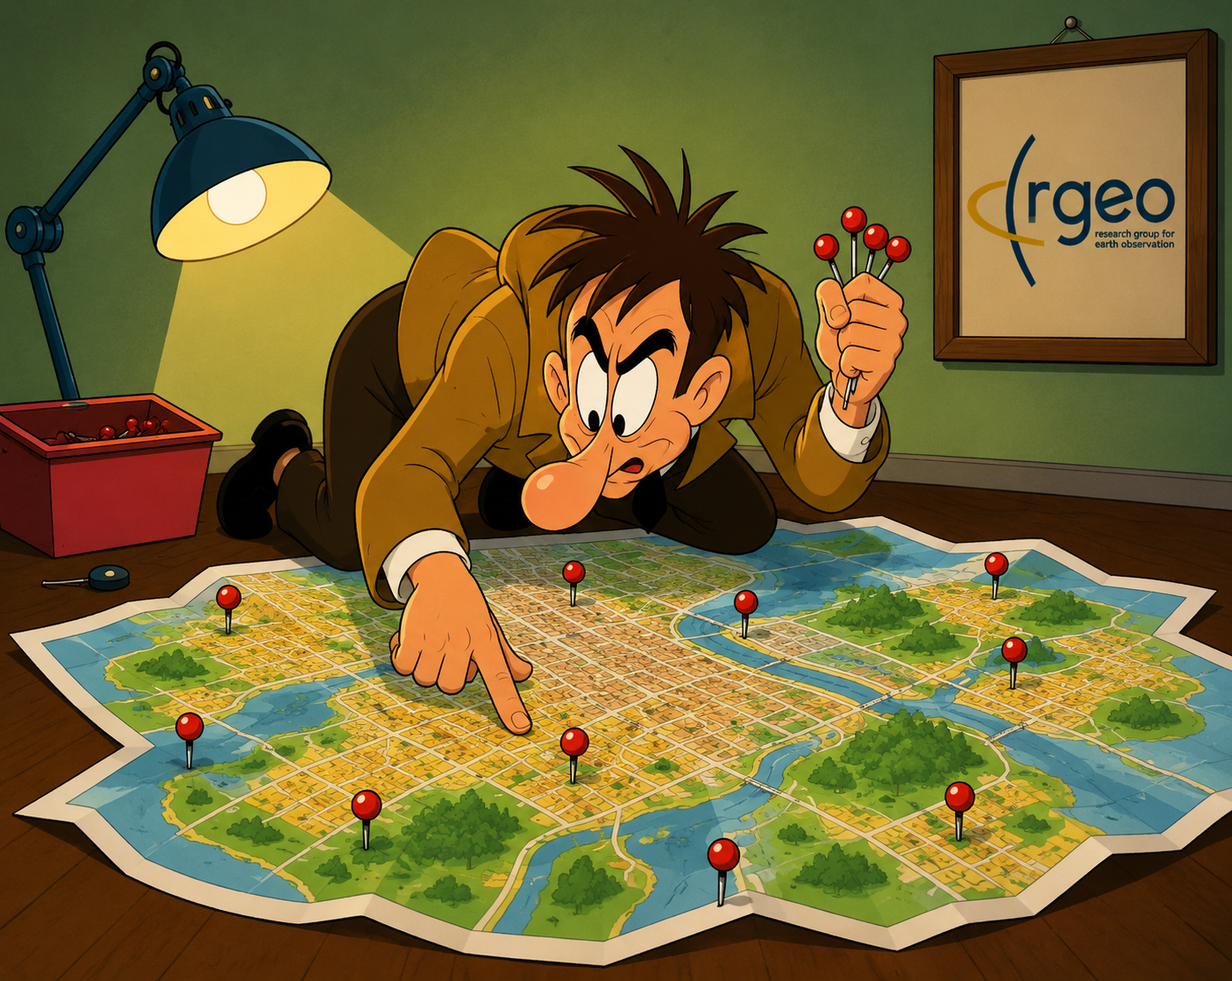
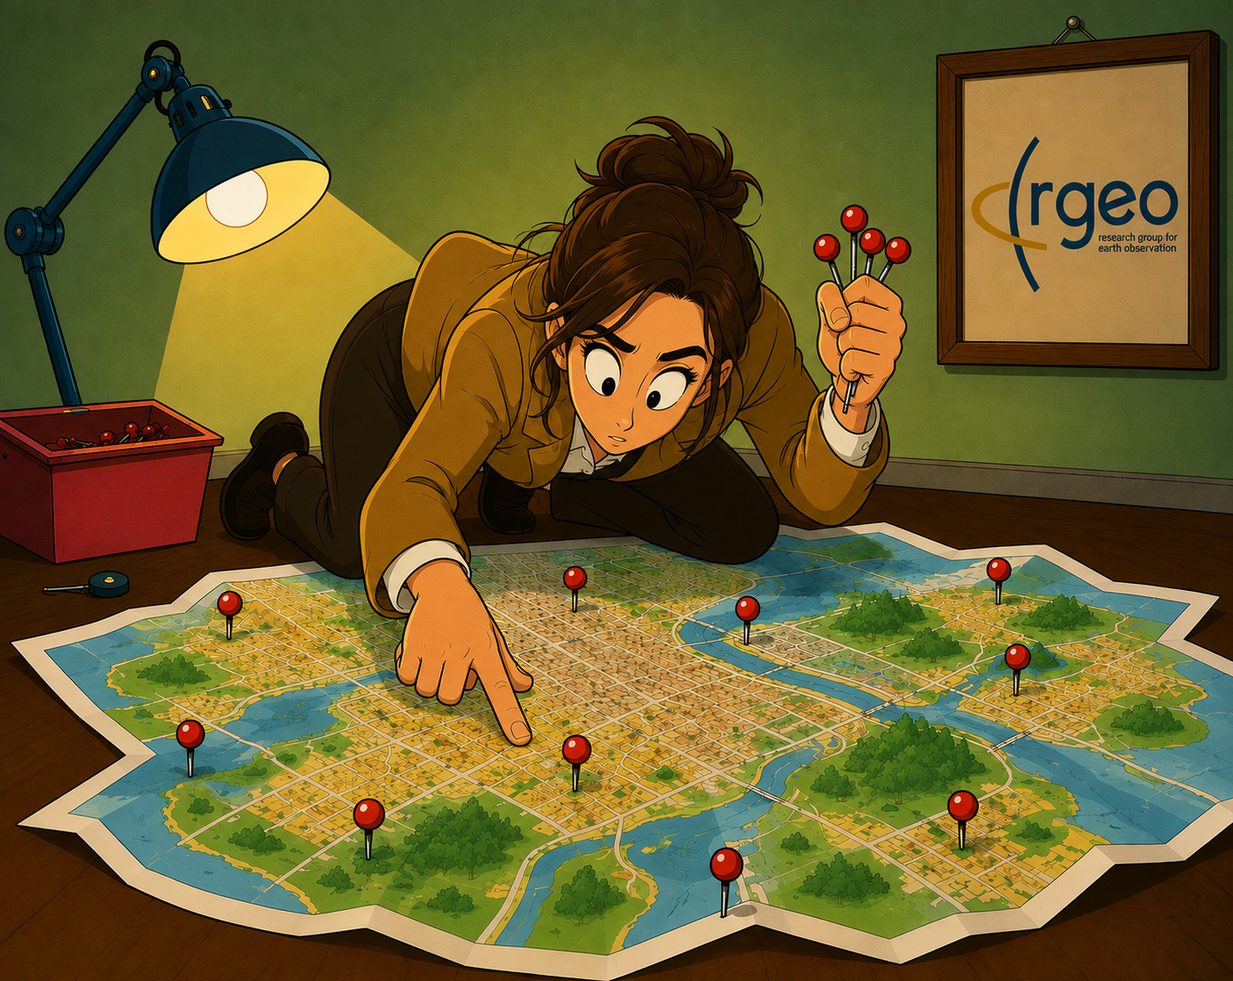
feat: New start-screen image, reduce to 8 levels, add extended post-survey
- Replace start-screen background with a new OpenAI GPT-Image-2 render;
  update source attribution (footer + Quellen-Modal) accordingly.
- Trim data/config.json from 15 to 9 level entries (B1 tutorial + B2-B9
  gameplay, was B2-B15) to shorten playtime. Source PNGs/GeoJSONs for the
  dropped levels are left on disk, not deleted.
- Extend the post-experiment familiarity check into a combined post-survey:
  4 placeholder questions (concentration, location, distraction, alertness)
  alongside the existing recognized-landscapes Yes/No, submitted together to
  a new Post_Befragung tab. Question wording is designed to be swapped for
  literature-derived items later without touching the surrounding flow.
- Add a device-type field (Computer/Tablet/Handy) to the one-time
  demographic form, stored as a self-healing new column on the already-live
  Personendaten sheet.
- README.md: drop the stale "vier Tabs" reference now that there are seven.

diff --git a/index.html b/index.html
@@ -37,7 +37,7 @@
     <button id="btn-start" onclick="startTutorial()">Experiment starten ›</button>
   </div>
   <footer id="app-footer" class="app-footer">
-    <span>Hintergrundbild Startbildschirm mit Google Gemini erstellt.</span>
+    <span>Hintergrundbild Startbildschirm mit OpenAI GPT-Image-2 erstellt.</span>
     <a href="#" onclick="openLegalModal('quellen');return false;">Quellenangaben</a>
     <a href="#" onclick="openLegalModal('impressum');return false;">Impressum</a>
     <a href="#" onclick="openLegalModal('datenschutz');return false;">Datenschutz</a>
@@ -75,7 +75,7 @@
   <div class="legal-modal-card">
     <h1>Quellenangaben</h1>
     <p>Satellitenbilder: Enthalten modifizierte Copernicus-Sentinel-Daten, Sentinel-2 L2A, Copernicus Data Space Ecosystem. Rechtsgrundlage: Legal notice on the use of Copernicus Sentinel Data and Service Information (VO (EU) 377/2014, Delegierte VO (EU) 1159/2013).</p>
-    <p>Hintergrundbild Startbildschirm: mit Google Gemini erstellt (KI-generiertes Bild, keine reale Aufnahme).</p>
+    <p>Hintergrundbild Startbildschirm: mit OpenAI GPT-Image-2 erstellt (KI-generiertes Bild, keine reale Aufnahme).</p>
     <button type="button" onclick="closeLegalModal('quellen')">Schließen</button>
   </div>
 </div>
@@ -208,11 +208,61 @@
   </div>
 </div>
 
-<!-- Familiarity-Check: Yes/No, nach dem letzten Level, vor dem Abschlusspopup -->
+<!-- Post-Abfrage: Konzentration/Ablenkung/Ort (Platzhalterfragen) + Bekanntheit-Check,
+     nach dem letzten Level, vor dem Abschlusspopup. Die 4 Platzhalterfragen sind bewusst
+     austauschbar angelegt (siehe CLAUDE.md) - Fragetexte/Skalen können jederzeit durch
+     literaturbasierte Items ersetzt werden, ohne Markup/Logik drumherum anzufassen. -->
 <div id="familiarity-modal" class="legal-modal">
   <div class="legal-modal-card">
-    <h1>Bekannte Landschaften?</h1>
-    <p>Kannten Sie eine oder mehrere der gezeigten Landschaften bereits, z.&nbsp;B. weil Sie den Ort schon einmal besucht oder das Gebiet schon einmal auf einer Karte/einem Foto gesehen haben?</p>
+    <h1>Noch ein paar Fragen zum Abschluss</h1>
+
+    <div class="pq-question">
+      <p class="pq-label">Wie konzentriert waren Sie während des Spiels? <span class="pq-placeholder-tag">Platzhalterfrage 1</span></p>
+      <div class="likert-row" data-question="konzentration">
+        <span class="likert-end">gar nicht</span>
+        <label><input type="radio" name="pq-konzentration" value="1">1</label>
+        <label><input type="radio" name="pq-konzentration" value="2">2</label>
+        <label><input type="radio" name="pq-konzentration" value="3">3</label>
+        <label><input type="radio" name="pq-konzentration" value="4">4</label>
+        <label><input type="radio" name="pq-konzentration" value="5">5</label>
+        <span class="likert-end">sehr</span>
+      </div>
+    </div>
+
+    <div class="pq-question">
+      <p class="pq-label">Wo befanden Sie sich während des Spielens? <span class="pq-placeholder-tag">Platzhalterfrage 2</span></p>
+      <input type="text" id="pq-ort" placeholder="z. B. zuhause am Schreibtisch, unterwegs, …">
+    </div>
+
+    <div class="pq-question">
+      <p class="pq-label">Wurden Sie während des Spiels unterbrochen oder abgelenkt (z.&nbsp;B. durch andere Personen, Geräusche, Benachrichtigungen)? <span class="pq-placeholder-tag">Platzhalterfrage 3</span></p>
+      <div class="likert-row" data-question="ablenkung">
+        <span class="likert-end">gar nicht</span>
+        <label><input type="radio" name="pq-ablenkung" value="1">1</label>
+        <label><input type="radio" name="pq-ablenkung" value="2">2</label>
+        <label><input type="radio" name="pq-ablenkung" value="3">3</label>
+        <label><input type="radio" name="pq-ablenkung" value="4">4</label>
+        <label><input type="radio" name="pq-ablenkung" value="5">5</label>
+        <span class="likert-end">sehr stark</span>
+      </div>
+    </div>
+
+    <div class="pq-question">
+      <p class="pq-label">Wie wach/ausgeruht waren Sie beim Spielen? <span class="pq-placeholder-tag">Platzhalterfrage 4</span></p>
+      <div class="likert-row" data-question="wachheit">
+        <span class="likert-end">sehr müde</span>
+        <label><input type="radio" name="pq-wachheit" value="1">1</label>
+        <label><input type="radio" name="pq-wachheit" value="2">2</label>
+        <label><input type="radio" name="pq-wachheit" value="3">3</label>
+        <label><input type="radio" name="pq-wachheit" value="4">4</label>
+        <label><input type="radio" name="pq-wachheit" value="5">5</label>
+        <span class="likert-end">hellwach</span>
+      </div>
+    </div>
+
+    <div class="pq-question">
+      <p class="pq-label">Kannten Sie eine oder mehrere der gezeigten Landschaften bereits, z.&nbsp;B. weil Sie den Ort schon einmal besucht oder das Gebiet schon einmal auf einer Karte/einem Foto gesehen haben?</p>
+    </div>
     <div class="familiarity-modal-actions">
       <button type="button" class="secondary" onclick="familiarityAnswer(false)">Nein</button>
       <button type="button" class="primary" onclick="familiarityAnswer(true)">Ja</button>

diff --git a/assets/js/tutorial.js b/assets/js/tutorial.js
@@ -73,11 +73,13 @@ const TUT_TEXTS = {
     formStudienfach: 'Studienfach (falls zutreffend)',
     formGis:         'Vorerfahrung mit Kartenlesen / GIS / Fernerkundung',
     formGeschlecht:  'Geschlecht',
+    formGeraet:      'Womit nehmen Sie teil?',
     formOptionLeer:  'Keine Angabe',
     formContinue:    'Weiter zum Tutorial',
     formBildungOptions: ['Hauptschulabschluss','Realschulabschluss','Abitur/Fachabitur','Berufsausbildung','Bachelor','Master/Diplom/Magister','Promotion'],
     formGisOptions: ['Keine Erfahrung','Grundkenntnisse','Fortgeschritten','Experte'],
     formGeschlechtOptions: ['Männlich','Weiblich','Divers'],
+    formGeraetOptions: ['Computer/Laptop','Tablet','Handy'],
   },
   en: {
     info: [
@@ -145,11 +147,13 @@ const TUT_TEXTS = {
     formStudienfach: 'Field of study (if applicable)',
     formGis:         'Prior experience with map reading / GIS / remote sensing',
     formGeschlecht:  'Gender',
+    formGeraet:      'What are you using to participate?',
     formOptionLeer:  'Prefer not to say',
     formContinue:    'Continue to tutorial',
     formBildungOptions: ['Lower secondary school','Secondary school','High school diploma / A-levels','Vocational training','Bachelor\'s degree','Master\'s / Diplom / Magister','Doctorate'],
     formGisOptions: ['No experience','Basic knowledge','Advanced','Expert'],
     formGeschlechtOptions: ['Male','Female','Non-binary'],
+    formGeraetOptions: ['Computer/Laptop','Tablet','Phone'],
   },
 };
 
@@ -304,6 +308,8 @@ function showPersonFormScreen() {
         '<select id="pf-gis">' + opts(texts.formGisOptions) + '</select></div>' +
       '<div class="tut-form-row"><label>' + texts.formGeschlecht + '</label>' +
         '<select id="pf-geschlecht">' + opts(texts.formGeschlechtOptions) + '</select></div>' +
+      '<div class="tut-form-row"><label>' + texts.formGeraet + '</label>' +
+        '<select id="pf-geraet">' + opts(texts.formGeraetOptions) + '</select></div>' +
       '<div class="tut-btn-row">' +
         '<button class="tut-btn" onclick="onPersonFormContinue()">' + texts.formContinue + '</button>' +
       '</div>' +
@@ -317,6 +323,7 @@ function onPersonFormContinue() {
     studienfach: document.getElementById('pf-studienfach').value,
     gisErfahrung: document.getElementById('pf-gis').value,
     geschlecht: document.getElementById('pf-geschlecht').value,
+    geraet: document.getElementById('pf-geraet').value,
   });
   document.getElementById('tutorial-info-screen').classList.remove('active');
   startOverlayTutorial();

diff --git a/assets/js/app.js b/assets/js/app.js
@@ -76,10 +76,11 @@ let klasseColour = {};  // klasse → {fill, stroke}
 // nur die Checkboxen (kein QA-Bedienfeld) und ist eigenstaendig vom D-Modus.
 let hintActive = false;
 
-// Familiarity-Check + Feedback am Spielende (siehe finishExperiment())
+// Familiarity-Check + Post-Abfrage + Feedback am Spielende (siehe finishExperiment())
 let familiarityStatus = null;     // 'ja' | 'nein' | null
 let familiarityMarks = {};        // level id → {name}
 let familiarityEditingLevel = null;
+const POST_SURVEY_LIKERT_QUESTIONS = ['konzentration', 'ablenkung', 'wachheit'];
 
 // DOM refs
 let elStage, elSatImg, elLoupe, elLoupeCanvas, elLoupeCtx,
@@ -923,10 +924,27 @@ function showFeedback(msg,type){
 // bewusst und ruft showResults() direkt auf.
 function finishExperiment(){
   stopTimer();
+  document.querySelectorAll('#familiarity-modal input[type=radio]').forEach(r=>{ r.checked = false; });
+  document.getElementById('pq-ort').value = '';
   document.getElementById('familiarity-modal').classList.add('active');
 }
 
+// Liest die 4 Platzhalterfragen aus (siehe HTML-Kommentar bei #familiarity-modal:
+// austauschbar angelegt) und liefert sie zusammen mit dem Bekanntheits-Status an
+// submitPostSurvey() (telemetry.js) - fest an den Klick auf Nein/Ja gekoppelt,
+// da das dieselbe "Post-Abfrage" ist wie der Familiarity-Check.
+function readPostSurveyAnswers_(){
+  const answers = { ort: document.getElementById('pq-ort').value.trim() };
+  POST_SURVEY_LIKERT_QUESTIONS.forEach(q=>{
+    const checked = document.querySelector(`input[name="pq-${q}"]:checked`);
+    answers[q] = checked ? checked.value : '';
+  });
+  return answers;
+}
+
 function familiarityAnswer(yes){
+  const postSurveyAnswers = readPostSurveyAnswers_();
+  submitPostSurvey(postSurveyAnswers);
   document.getElementById('familiarity-modal').classList.remove('active');
   if(yes){
     familiarityStatus = 'ja';

diff --git a/assets/css/style.css b/assets/css/style.css
@@ -426,6 +426,17 @@ tr:hover td{background:rgba(12,164,209,0.06);}
 }
 .legal-modal-card input[type=text]:focus,
 .legal-modal-card textarea:focus{outline:2px solid var(--accent);outline-offset:-1px;}
+.pq-question{margin-bottom:16px;text-align:left;}
+.pq-label{font-weight:600;font-size:0.92rem;color:#2a2a2a;margin-bottom:8px;line-height:1.5;}
+.pq-placeholder-tag{font-weight:400;font-size:0.72rem;color:var(--muted);
+  border:1px solid var(--line);border-radius:3px;padding:1px 6px;margin-left:4px;
+  white-space:nowrap;}
+.pq-question input[type=text]{margin-top:0;}
+.likert-row{display:flex;align-items:center;gap:10px;flex-wrap:wrap;}
+.likert-end{font-size:0.78rem;color:var(--muted);}
+.likert-row label{display:flex;flex-direction:column;align-items:center;gap:3px;
+  font-size:0.78rem;color:var(--muted);cursor:pointer;}
+.likert-row input[type=radio]{width:16px;height:16px;cursor:pointer;accent-color:var(--accent);}
 .familiarity-modal-actions{display:flex;gap:10px;justify-content:flex-end;
   flex-wrap:wrap;margin-top:14px;}
 .familiarity-modal-actions button{margin-top:0;}

diff --git a/assets/js/telemetry.js b/assets/js/telemetry.js
@@ -156,6 +156,7 @@ function submitPersonData(fields){
     studienfach: fields.studienfach,
     gisErfahrung: fields.gisErfahrung,
     geschlecht: fields.geschlecht,
+    geraet: fields.geraet,
   });
 }
 
@@ -185,6 +186,16 @@ function submitFamiliarity(status, markedImages){
     status: status,
     markedImages: markedImages || [],
   });
+}
+
+// answers: {konzentration, ort, ablenkung, wachheit} (siehe POST_SURVEY_LIKERT_QUESTIONS
+// in app.js) - Platzhalter-Fragen, austauschbar gegen literaturbasierte Items.
+function submitPostSurvey(answers){
+  sendToBackend_(Object.assign({
+    type: 'post_survey',
+    participantId: getParticipantId(),
+    runToken: _runToken,
+  }, answers));
 }
 
 function submitFeedback(feedbackText){

diff --git a/CLAUDE.md b/CLAUDE.md
@@ -10,8 +10,8 @@ The **runtime is a static site** (`index.html` + `assets/js/telemetry.js` + `ass
 
 ## Datenerhebung (seit 2026-08-25, Learnings aus dem TIER-List-Projekt übertragen)
 
-**Backend:** `apps-script/Code.gs`, analog zum Vorbild in `03_Projektphasen/02_Empirische Datenerhebung/TIERList/apps-script/Code.gs`, aber mit eigenem Google Sheet + eigenem `SUBMIT_TOKEN`. Sechs Tabs, verknüpft über `participant_id`/`lauf_id` (siehe Code.gs-Kommentare für die genaue `resolveRun_`-Logik):
-- **Personendaten** — 1 Zeile pro `participant_id`, nur beim allerersten Formular (Platzhalter-Felder: Alter, Bildungsabschluss, Studienfach, GIS-Erfahrung, Geschlecht — Feldliste noch nicht literaturbasiert final).
+**Backend:** `apps-script/Code.gs`, analog zum Vorbild in `03_Projektphasen/02_Empirische Datenerhebung/TIERList/apps-script/Code.gs`, aber mit eigenem Google Sheet + eigenem `SUBMIT_TOKEN`. Sieben Tabs, verknüpft über `participant_id`/`lauf_id` (siehe Code.gs-Kommentare für die genaue `resolveRun_`-Logik):
+- **Personendaten** — 1 Zeile pro `participant_id`, nur beim allerersten Formular (Platzhalter-Felder: Alter, Bildungsabschluss, Studienfach, GIS-Erfahrung, Geschlecht, Gerät [Computer/Tablet/Handy, seit 2026-08-26 — `geraet`-Spalte per `ensureColumn_()` selbstheilend angehängt, siehe `handlePerson_`] — Feldliste noch nicht literaturbasiert final).
 - **Durchlaeufe** — 1 Zeile pro `lauf_id`, Geräte-/Browser-Metadaten (bewusst OHNE IP/Geolocation/Fingerprinting, siehe Datenschutz-Modal). Zusätzliche Spalte `bekanntheit_status` (seit 2026-08-26, siehe "Familiarity-Check" unten) — per `ensureColumn_()` selbstheilend an das Tab angehängt, statt die Kopfzeile eines bereits live laufenden Sheets fest im Code vorzuschreiben.
 - **Level_Ergebnisse** — 1 Zeile pro Level+Label (Zeit, Versuche, Reihenfolge-Position, Fehlwürfe nach Ziel getrennt).
 - **Drop_Versuche** — 1 Zeile pro Ablage-Versuch (auch Fehlversuche), inkl. `x_frac`/`y_frac`-Ablageposition und der am Ort tatsächlich laut GeoJSON vorhandenen Klasse(n) — ermöglicht räumliche Auswertung typischer Fehlzuordnungen.
@@ -22,19 +22,21 @@ The **runtime is a static site** (`index.html` + `assets/js/telemetry.js` + `ass
 
 **Feedback-Button (seit 2026-08-26):** `#results-screen` hat einen "Feedback geben ›"-Button neben "Neustart", öffnet `#feedback-modal` (Freitext-Textarea, optional/überspringbar). Absenden ruft `submitFeedback()` auf, landet im Feedback-Tab.
 
+**Post-Befragung / Platzhalterfragen (seit 2026-08-26):** `#familiarity-modal` wurde zur kombinierten Post-Abfrage erweitert — 4 Platzhalterfragen (Konzentration/Ort/Ablenkung/Wachheit, `POST_SURVEY_LIKERT_QUESTIONS` in `app.js`, drei davon als 1–5-Likert-Radiogruppen `pq-<name>`, eine als Freitext `#pq-ort`) plus der Bekanntheits-Frage auf einer Karte. `familiarityAnswer()` liest die 4 Antworten (`readPostSurveyAnswers_()`) und schickt sie sofort per `submitPostSurvey()` ab (unabhängig vom Ja/Nein-Zweig danach) → Tab **Post_Befragung** (`handlePostSurvey_` in Code.gs). Die Fragetexte/Skalen sind bewusst austauschbar angelegt — Julian will sie später gegen literaturbasierte Items ersetzen; beim Ersetzen nur die `.pq-question`-Blöcke in `index.html` + die zugehörigen Feldnamen in `readPostSurveyAnswers_()`/`handlePostSurvey_()` anpassen, der Rest des Ablaufs bleibt gleich.
+
 **Client-Seite** (`assets/js/telemetry.js`, geladen VOR `app.js`): `participant_id` ist geräteweit stabil (localStorage, key `geogame_participant_id`), `_runToken` ist neu pro Durchlauf (nur im Speicher). Submission ist automatisch pro gelöstem Level (`no-cors`-POST, kein gesammeltes Absenden am Ende — robust gegen Abbruch). **Vor dem ersten echten Einsatz müssen `SUBMIT_URL` in `telemetry.js` und `SPREADSHEET_ID` in `apps-script/Code.gs` manuell eingetragen werden** (siehe README.md, Abschnitt "Deployment") — beide sind aktuell Platzhalter (`TRAGE_HIER_...`), solange fällt jede Übermittlung auf einen reinen `console.warn` zurück, ohne das Spiel zu blockieren.
 
 Die Telemetrie-Hooks sitzen in `app.js`: `resetLevelTelemetry()` (in `loadLevel()`), `logDropAttempt()` (aufgerufen aus `handleStageDrop()`/`handleTrashDrop()` bei jedem Ablage-Versuch, korrekt oder nicht), `submitLevelTelemetry()` (aus `checkLevelComplete()` bei echtem Levelabschluss). Die Übungsrunde (`loadLevelSilent()` in `tutorial.js`) initialisiert `levelTelemetry` bewusst NICHT — dadurch werden Übungsrunden-Interaktionen automatisch von der Telemetrie ausgeklammert (siehe Guards in `logDropAttempt()`/`toggleDebug()`).
 
 **"Ich komme nicht weiter"-Hinweis-Button** (`#btn-hint` in `index.html`, `showHint()` in `app.js`): zeigt die Hitbox-Overlay-Zeichnung (`redrawDebug()`) plus (seit 2026-08-26) `#hint-layers-panel` — eine schlanke Ebenenumschaltung (Checkbox pro Klasse, `buildHintLayerChecks()`), die sich `debugActive`/`klasseColour` mit dem `D`-Debug-Panel teilt, aber ohne dessen QA-Steuerung (Level-Navigation, Aufgaben-Skip). `updateHintLayersVisibility()` blendet sie aus, sobald der volle Debug-Modus aktiv ist, damit sich beide Panels nicht überlappen. Setzt `levelTelemetry.hinweisGenutzt = true`, landet als eigene Spalte `hinweis_genutzt` in `Level_Ergebnisse` — bewusst **getrennt** von `debug_modus_ausgeloest` (das nur `toggleDebug()`/Taste `D` setzt), da beide inhaltlich verschiedene Dinge sind (designte Hilfestellung vs. versehentlicher Debug-Modus).
 
-**Auswertungs-Dashboard:** `apps-script/Code.gs` hat neben `doPost` auch ein `doGet(e)` (eigener `READ_TOKEN`, getrennt vom öffentlichen `SUBMIT_TOKEN`), das alle sechs Tabs als JSON zurückgibt. Genutzt vom Dashboard unter `00_Tests und AdHoc/VisualComplexity_Game/Auswertung/GeoGame_Dashboard.html` (Details/Update-Workflow: siehe Memory [[reference_geogame_dashboard]] bzw. `MEMORY.md` im Promotion-Projekt) — kein Live-Fetch (Claude-Artifacts dürfen keine externen Hosts aufrufen), stattdessen ein bei Bedarf neu eingebetteter Daten-Snapshot. **Fallstrick:** Die Sheet-eigene "Erweiterungen → Apps Script" öffnet ein anderes, leeres, nie deploytes Projekt — das echte, deployte Backend ist das **eigenständige** Projekt "GeoGame Backend" unter script.google.com/home/my.
+**Auswertungs-Dashboard:** `apps-script/Code.gs` hat neben `doPost` auch ein `doGet(e)` (eigener `READ_TOKEN`, getrennt vom öffentlichen `SUBMIT_TOKEN`), das alle sieben Tabs als JSON zurückgibt. Genutzt vom Dashboard unter `00_Tests und AdHoc/VisualComplexity_Game/Auswertung/GeoGame_Dashboard.html` (Details/Update-Workflow: siehe Memory [[reference_geogame_dashboard]] bzw. `MEMORY.md` im Promotion-Projekt) — kein Live-Fetch (Claude-Artifacts dürfen keine externen Hosts aufrufen), stattdessen ein bei Bedarf neu eingebetteter Daten-Snapshot. **Fallstrick:** Die Sheet-eigene "Erweiterungen → Apps Script" öffnet ein anderes, leeres, nie deploytes Projekt — das echte, deployte Backend ist das **eigenständige** Projekt "GeoGame Backend" unter script.google.com/home/my.
 
 ## Rechtliche Bausteine (ebenfalls aus TIER-List übertragen)
 
 Ablauf seit 2026-08-25: `[Sprachwahl]` → `[bestehende Info-Screens]` → `[Consent-Popup]` → `[Personendaten-Formular, nur beim allerersten Durchlauf]` → `[bestehendes Overlay-Tutorial + Übungsrunde]` → Spiel (siehe `tutorial.js`: `onConsentContinue()`, `showPersonFormScreen()`). Bei Wiederholungsspielern (erkannt via vorhandenem `participant_id`) wird das Formular übersprungen, aber jeder Durchlauf bekommt trotzdem eine neue `lauf_id`/`durchlauf_nr` (kein Warnbildschirm wie bei TIER-List — Wiederholung ist hier gewünschtes Verhalten, nicht Ausnahmefall).
 
-Impressum-/Datenschutz-/Quellen-Modals sitzen in `index.html` (`#impressum-modal`, `#datenschutz-modal`, `#quellen-modal`, Klasse `.legal-modal`), geöffnet/geschlossen über `openLegalModal(name)`/`closeLegalModal(name)` in `app.js`, verlinkt aus dem Footer auf dem Startbildschirm. Das Quellen-Modal enthält sowohl den Copernicus-Sentinel-Lizenzhinweis als auch den Hinweis, dass das Startbildschirm-Hintergrundbild mit Google Gemini erstellt wurde.
+Impressum-/Datenschutz-/Quellen-Modals sitzen in `index.html` (`#impressum-modal`, `#datenschutz-modal`, `#quellen-modal`, Klasse `.legal-modal`), geöffnet/geschlossen über `openLegalModal(name)`/`closeLegalModal(name)` in `app.js`, verlinkt aus dem Footer auf dem Startbildschirm. Das Quellen-Modal enthält sowohl den Copernicus-Sentinel-Lizenzhinweis als auch den Hinweis, dass das Startbildschirm-Hintergrundbild KI-generiert ist (seit 2026-08-26: OpenAI GPT-Image-2, zuvor Google Gemini — Bilddatei `Bilder/Deko_und_UI/Startscreen.png` bei einem erneuten Bildwechsel einfach überschreiben, Dateiname bleibt stabil).
 
 **Wichtiger Fallstrick beim Ändern der Formular-Skip-Logik:** `isFirstEverVisit()` muss immer VOR jedem Aufruf geprüft werden, der `getParticipantId()` transitiv aufruft (z. B. `submitLaufStart()`) — sonst legt der Metadaten-Versand den `participant_id` bereits an, bevor die Erstbesuch-Prüfung läuft, und das Formular wird fälschlich übersprungen (realer Bug, der beim Testen dieser Umsetzung auftrat und in `onConsentContinue()` gefixt wurde, indem `firstVisit` vorab in einer Variable festgehalten wird).
 
@@ -104,6 +106,8 @@ Committed to the repo: generated **PNGs**, **GeoJSONs**, **config.json** (for Gi
 Two plain-script globals, no modules/bundler, loaded directly by `index.html` in this order: `app.js` then `tutorial.js` (tutorial.js reads/calls globals defined in app.js: `CONFIG`, `buildZones`, `renderLabels`, `ensureMouseEvents`, `loadLevel`, `startShuffledExperiment`).
 
 **Flow:** `boot()` (on `DOMContentLoaded`) fetches `data/config.json` → shows start screen → `startTutorial()` (tutorial.js) drives language selection → 3 info screens → 4-step spotlight overlay tutorial → one practice round (must correctly drop "Wasser") → `finishTutorial()`/`skipTutorial()` calls `startShuffledExperiment()` to begin the real experiment.
+
+**Level count (reduced 2026-08-26):** `data/config.json` now has 9 entries (`B1`–`B9`) instead of 15 — `B1` stays the tutorial's silent practice round, `B2`–`B9` are the 8 real gameplay levels (was 14, `B10`–`B15` dropped). This was a pure `config.json` trim — the underlying `Bilder/EO_Bilder/B10norm.png`…`B15norm.png`, `Bilder/Hitboxes/B10puf.geojson`…`B15puf.geojson`, and `input/10.tif`…`15.tif` were deliberately left on disk (not deleted) so the cut levels can be reinstated later by just re-adding their config entries. The freed-up playtime was reinvested in the Post-Befragung (see Datenerhebung above).
 
 **Randomised level order:** `buildLevelOrder()` shuffles indices `1..N-1` into the global `levelOrder` (index `0` is reserved for the tutorial's silent preload/practice round and never appears in the timed experiment). `orderPos` tracks the current position in that shuffled sequence; `nextLevel()` increments `orderPos` and loads `levelOrder[orderPos]`, or calls `finishExperiment()` once exhausted (since 2026-08-26 this runs the Familiarity-Check before `showResults()` — see "Familiarity-Check" under Datenerhebung above; `debugJumpToResults()` bypasses it and calls `showResults()` directly). The top progress bar/text and the "Bereit" overlay both display `orderPos+1 / levelOrder.length`, **not** the raw `CONFIG.levels` index — so progress numbering reflects play order, not image order. Debug-panel level navigation (`debugPrevLevel`/`debugNextLevel`) deliberately bypasses this and steps through raw config indices instead, for QA purposes.
 

diff --git a/README.md b/README.md
@@ -70,7 +70,7 @@ Python-Scripts laufen **lokal**, nie auf dem Server.
 
 Muss **einmalig manuell** eingerichtet werden, bevor echte Daten erhoben werden können:
 
-1. Neues Google Sheet anlegen (leer, Name z. B. "GeoGame Ergebnisse"). Die vier Tabs (Personendaten, Durchlaeufe, Level_Ergebnisse, Drop_Versuche) werden beim ersten Request automatisch mit Kopfzeile angelegt — nichts manuell vorbereiten.
+1. Neues Google Sheet anlegen (leer, Name z. B. "GeoGame Ergebnisse"). Die Tabs (Personendaten, Durchlaeufe, Level_Ergebnisse, Drop_Versuche, Bildwiedererkennung, Post_Befragung, Feedback) werden beim ersten Request automatisch mit Kopfzeile angelegt — nichts manuell vorbereiten.
 2. Im Sheet: Erweiterungen → Apps Script. Den Inhalt von `apps-script/Code.gs` einfügen.
 3. In `Code.gs`: `SPREADSHEET_ID` eintragen (aus der Sheet-URL zwischen `/d/` und `/edit`).
 4. Bereitstellen → Neue Bereitstellung → Web-App. Ausführen als "Ich", Zugriff "Jeder". Deployen, die ausgegebene Web-App-URL kopieren.
@@ -82,7 +82,7 @@ Solange `SUBMIT_URL` noch den Platzhalter enthält, werden Telemetrie-Payloads n
 
 **Fallstrick:** Das Sheet-eigene Menü "Erweiterungen → Apps Script" öffnet ein *anderes*, leeres, nie deploytes Projekt — das echte Backend ist das **eigenständige** Apps-Script-Projekt "GeoGame Backend", zu finden über script.google.com/home/my (blauer Pfeil-Icon, nicht das grüne Sheet-Icon).
 
-`Code.gs` enthält neben `doPost` (Schreiben, siehe oben) auch `doGet` mit einem eigenen `READ_TOKEN` — liefert alle vier Tabs als JSON fürs Auswertungs-Dashboard (`00_Tests und AdHoc/VisualComplexity_Game/Auswertung/GeoGame_Dashboard.html`), ohne dass das Sheet selbst öffentlich freigegeben werden muss. Der `READ_TOKEN` gehört **nicht** in den öffentlichen Client-Code.
+`Code.gs` enthält neben `doPost` (Schreiben, siehe oben) auch `doGet` mit einem eigenen `READ_TOKEN` — liefert alle Tabs als JSON fürs Auswertungs-Dashboard (`00_Tests und AdHoc/VisualComplexity_Game/Auswertung/GeoGame_Dashboard.html`), ohne dass das Sheet selbst öffentlich freigegeben werden muss. Der `READ_TOKEN` gehört **nicht** in den öffentlichen Client-Code.
 
 ---
 
